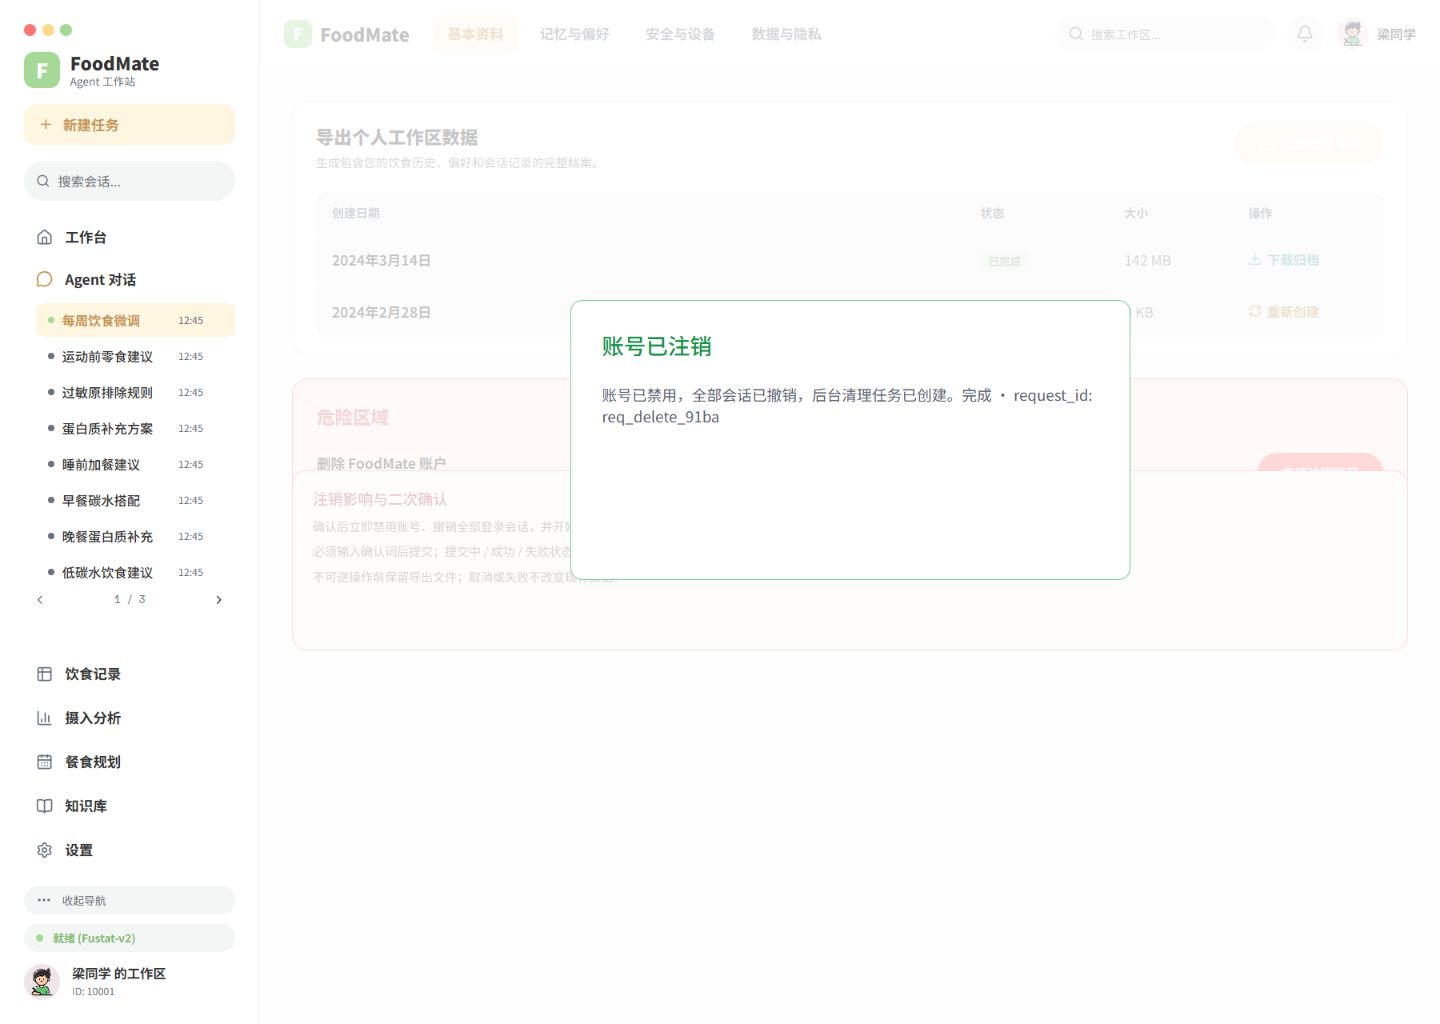
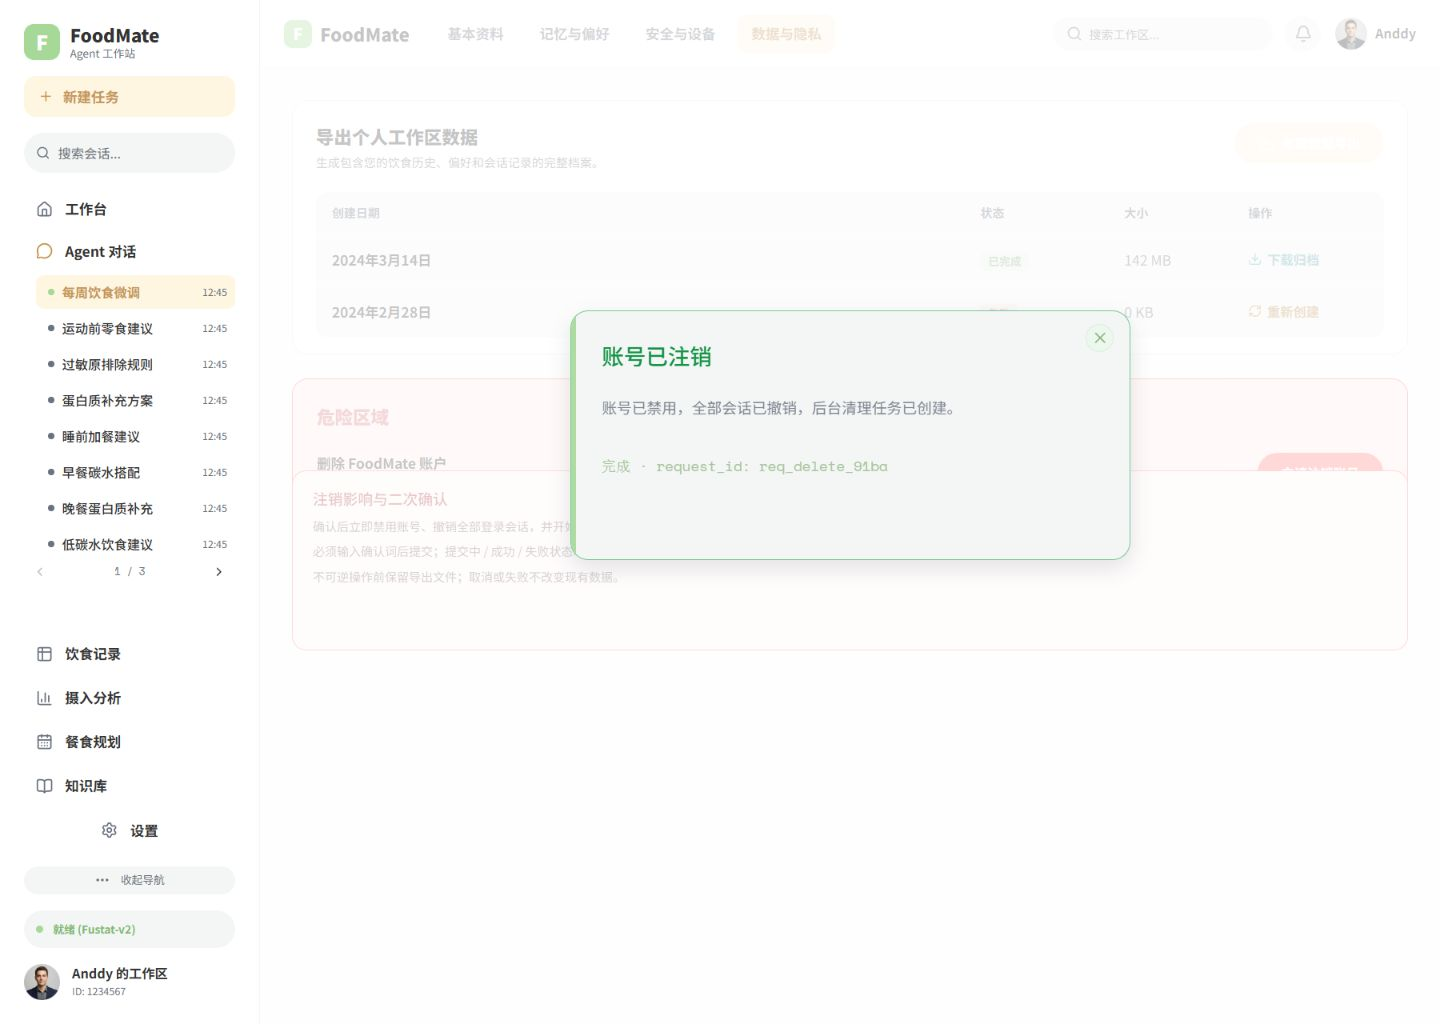
fix(个人中心): 对齐账号注销成功状态

diff --git a/foodmate-ui/src/pages/ProfilePage/ProfilePage.module.css b/foodmate-ui/src/pages/ProfilePage/ProfilePage.module.css
@@ -1729,6 +1729,21 @@
   transform: none;
 }
 
+.fixtureModalDeletionSuccess {
+  top: 310px;
+  left: 310px;
+  width: 560px;
+  height: 250px;
+  min-height: 0;
+  padding: 0;
+  border-color: rgb(166 217 151 / 34%);
+  border-radius: 18px;
+  background: #f4f6f5;
+  box-shadow: 0 8px 22px rgb(26 33 46 / 12%);
+  overflow: hidden;
+  transform: none;
+}
+
 .fixtureModal h2 {
   margin: 0;
   color: #4777e9;
@@ -2232,6 +2247,82 @@
   height: 18px;
 }
 
+.fixtureDeletionSuccessAccent {
+  position: absolute;
+  top: -1px;
+  left: -1px;
+  width: 6px;
+  height: 250px;
+  border-radius: 3px;
+  background: rgb(166 217 151 / 90%);
+}
+
+.fixtureDeletionSuccessTitle,
+.fixtureDeletionSuccessDetail,
+.fixtureDeletionSuccessStatus {
+  position: absolute;
+  left: 31px;
+  width: 490px;
+  margin: 0;
+  font-family: var(--font-ui);
+  font-weight: 400;
+  text-align: left;
+}
+
+.fixtureModal h2.fixtureDeletionSuccessTitle {
+  top: 31px;
+  color: #89b27c;
+  font-size: 22px;
+  line-height: 28px;
+}
+
+.fixtureModal p.fixtureDeletionSuccessDetail {
+  top: 85px;
+  margin: 0;
+  color: rgb(107 114 128 / 86%);
+  font-size: 15px;
+  line-height: 22px;
+}
+
+.fixtureModal p.fixtureDeletionSuccessStatus {
+  top: 144px;
+  margin: 0;
+  color: rgb(137 178 124 / 72%);
+  font-family: var(--font-mono);
+  font-size: 14px;
+  line-height: 22px;
+}
+
+.fixtureDeletionSuccessClose {
+  position: absolute;
+  top: 13px;
+  left: 515px;
+  display: inline-flex;
+  width: 28px;
+  height: 28px;
+  min-height: 28px;
+  align-items: center;
+  justify-content: center;
+  padding: 0;
+  border: 1px solid rgb(166 217 151 / 24%);
+  border-radius: 14px;
+  background: #ecf7ed;
+  color: rgb(137 178 124 / 90%);
+  margin-top: 0;
+  box-shadow: none;
+}
+
+.fixtureDeletionSuccessClose:hover,
+.fixtureDeletionSuccessClose:focus-visible {
+  background: #e0f1e2;
+  color: #89b27c;
+}
+
+.fixtureDeletionSuccessClose svg {
+  width: 18px;
+  height: 18px;
+}
+
 .fixtureLogoutActions {
   position: absolute;
   top: 273px;
@@ -2322,7 +2413,8 @@
 .fixtureModal > .fixtureExportQueuedClose,
 .fixtureModal > .fixtureExportExpiredAction,
 .fixtureModal > .fixtureExportExpiredClose,
-.fixtureModal > .fixtureDeletionSubmittingClose {
+.fixtureModal > .fixtureDeletionSubmittingClose,
+.fixtureModal > .fixtureDeletionSuccessClose {
   margin-top: 0;
 }
 
@@ -2416,6 +2508,13 @@
     transform: translateY(-50%);
   }
   .fixtureModalDeletionSubmitting {
+    top: 50%;
+    left: 16px;
+    width: calc(100% - 32px);
+    height: 250px;
+    transform: translateY(-50%);
+  }
+  .fixtureModalDeletionSuccess {
     top: 50%;
     left: 16px;
     width: calc(100% - 32px);
@@ -2527,6 +2626,19 @@
     line-height: 20px;
   }
   .fixtureDeletionSubmittingClose {
+    right: 13px;
+    left: auto;
+  }
+  .fixtureDeletionSuccessTitle,
+  .fixtureDeletionSuccessDetail,
+  .fixtureDeletionSuccessStatus {
+    left: 24px;
+    width: calc(100% - 48px);
+  }
+  .fixtureDeletionSuccessStatus {
+    line-height: 20px;
+  }
+  .fixtureDeletionSuccessClose {
     right: 13px;
     left: auto;
   }

diff --git a/foodmate-ui/src/pages/ProfilePage/ProfilePage.tsx b/foodmate-ui/src/pages/ProfilePage/ProfilePage.tsx
@@ -360,6 +360,7 @@ function ProfileFixtureOverlay({ state, onDismiss }: { state: ProfileFixtureStat
   const isExportRunning = state === 'privacy-export-running';
   const isExportExpired = state === 'privacy-export-expired';
   const isDeletionSubmitting = state === 'privacy-deletion-submitting';
+  const isDeletionSuccess = state === 'privacy-deletion-success';
   return (
     <div
       className={cn(
@@ -384,6 +385,7 @@ function ProfileFixtureOverlay({ state, onDismiss }: { state: ProfileFixtureStat
           isExportRunning ? styles.fixtureModalExportRunning : undefined,
           isExportExpired ? styles.fixtureModalExportExpired : undefined,
           isDeletionSubmitting ? styles.fixtureModalDeletionSubmitting : undefined,
+          isDeletionSuccess ? styles.fixtureModalDeletionSuccess : undefined,
         )}
         role="alert"
         aria-live="polite"
@@ -434,6 +436,21 @@ function ProfileFixtureOverlay({ state, onDismiss }: { state: ProfileFixtureStat
             <p className={styles.fixtureDeletionSubmittingStatus}>提交中 · request_id: req_delete_91ba</p>
             <Button
               className={styles.fixtureDeletionSubmittingClose}
+              variant="ghost"
+              aria-label="关闭"
+              onClick={onDismiss}
+            >
+              <X aria-hidden="true" />
+            </Button>
+          </>
+        ) : isDeletionSuccess ? (
+          <>
+            <span className={styles.fixtureDeletionSuccessAccent} aria-hidden="true" />
+            <h2 className={styles.fixtureDeletionSuccessTitle}>{title}</h2>
+            <p className={styles.fixtureDeletionSuccessDetail}>账号已禁用，全部会话已撤销，后台清理任务已创建。</p>
+            <p className={styles.fixtureDeletionSuccessStatus}>完成 · request_id: req_delete_91ba</p>
+            <Button
+              className={styles.fixtureDeletionSuccessClose}
               variant="ghost"
               aria-label="关闭"
               onClick={onDismiss}

diff --git a/foodmate-ui/src/pages/ProfilePage/ProfilePage.test.tsx b/foodmate-ui/src/pages/ProfilePage/ProfilePage.test.tsx
@@ -177,6 +177,21 @@ describe('ProfilePage', () => {
     expect(screen.queryByRole('heading', { name: '正在注销账号' })).not.toBeInTheDocument();
   });
 
+  it('renders and dismisses the Figma deletion success fixture', async () => {
+    const user = userEvent.setup();
+    renderPage('/profile?state=privacy-deletion-success');
+
+    expect(screen.getByRole('heading', { name: '账号已注销' })).toBeInTheDocument();
+    expect(screen.getByText('账号已禁用，全部会话已撤销，后台清理任务已创建。')).toBeInTheDocument();
+    expect(screen.getByText('完成 · request_id: req_delete_91ba')).toBeInTheDocument();
+    expect(screen.getByRole('button', { name: '关闭' })).toBeInTheDocument();
+    expect(screen.queryByText('完成 · request_id: req_delete_91ba。')).not.toBeInTheDocument();
+
+    await user.click(screen.getByRole('button', { name: '关闭' }));
+
+    expect(screen.queryByRole('heading', { name: '账号已注销' })).not.toBeInTheDocument();
+  });
+
   it('edits profile fields and manages allergens before saving', async () => {
     const user = userEvent.setup();
     renderPage('/profile');
